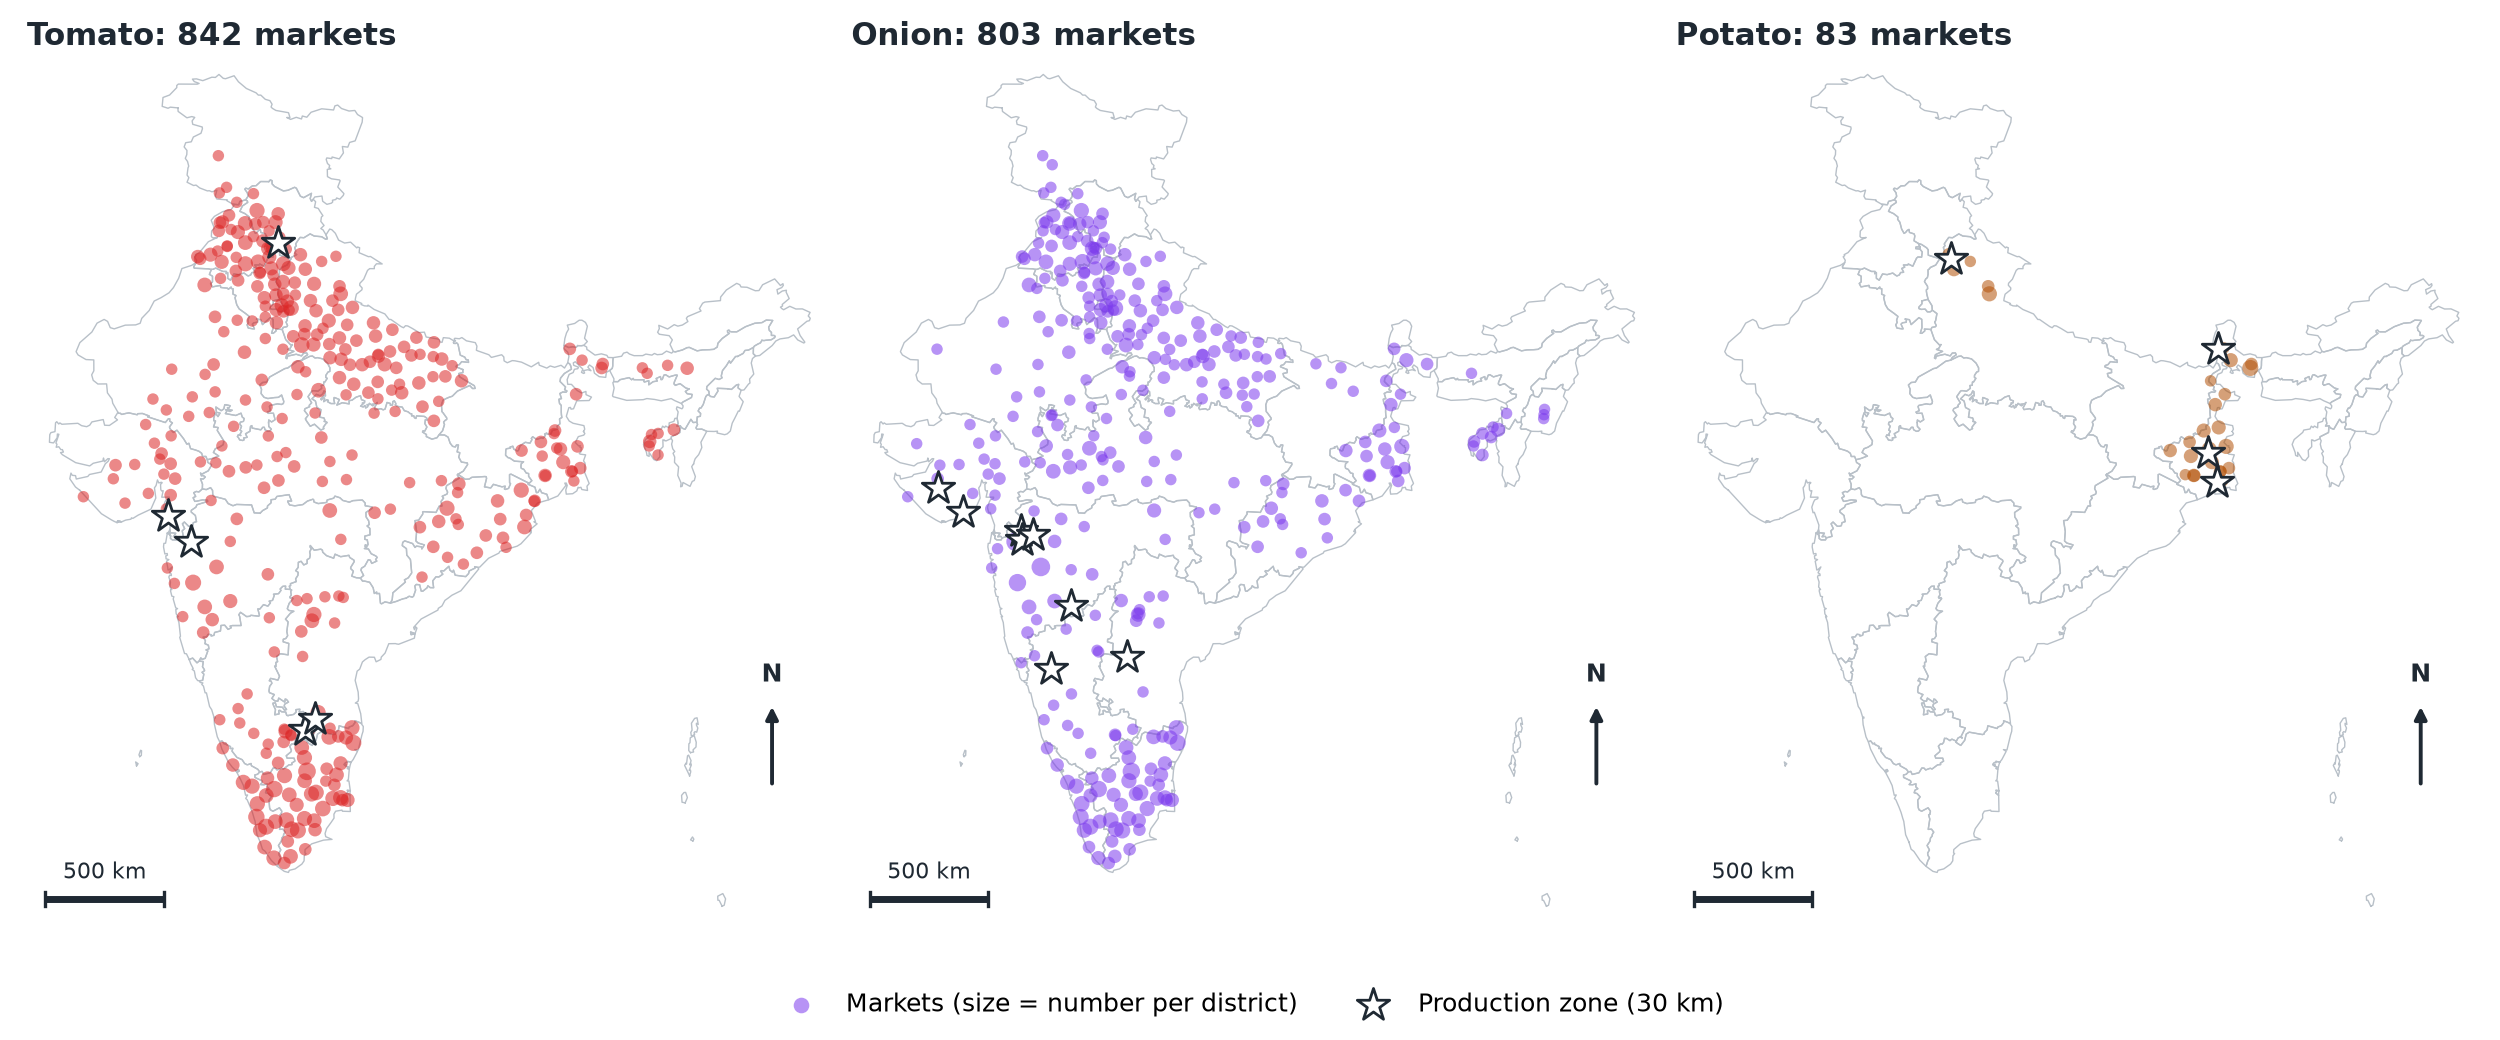
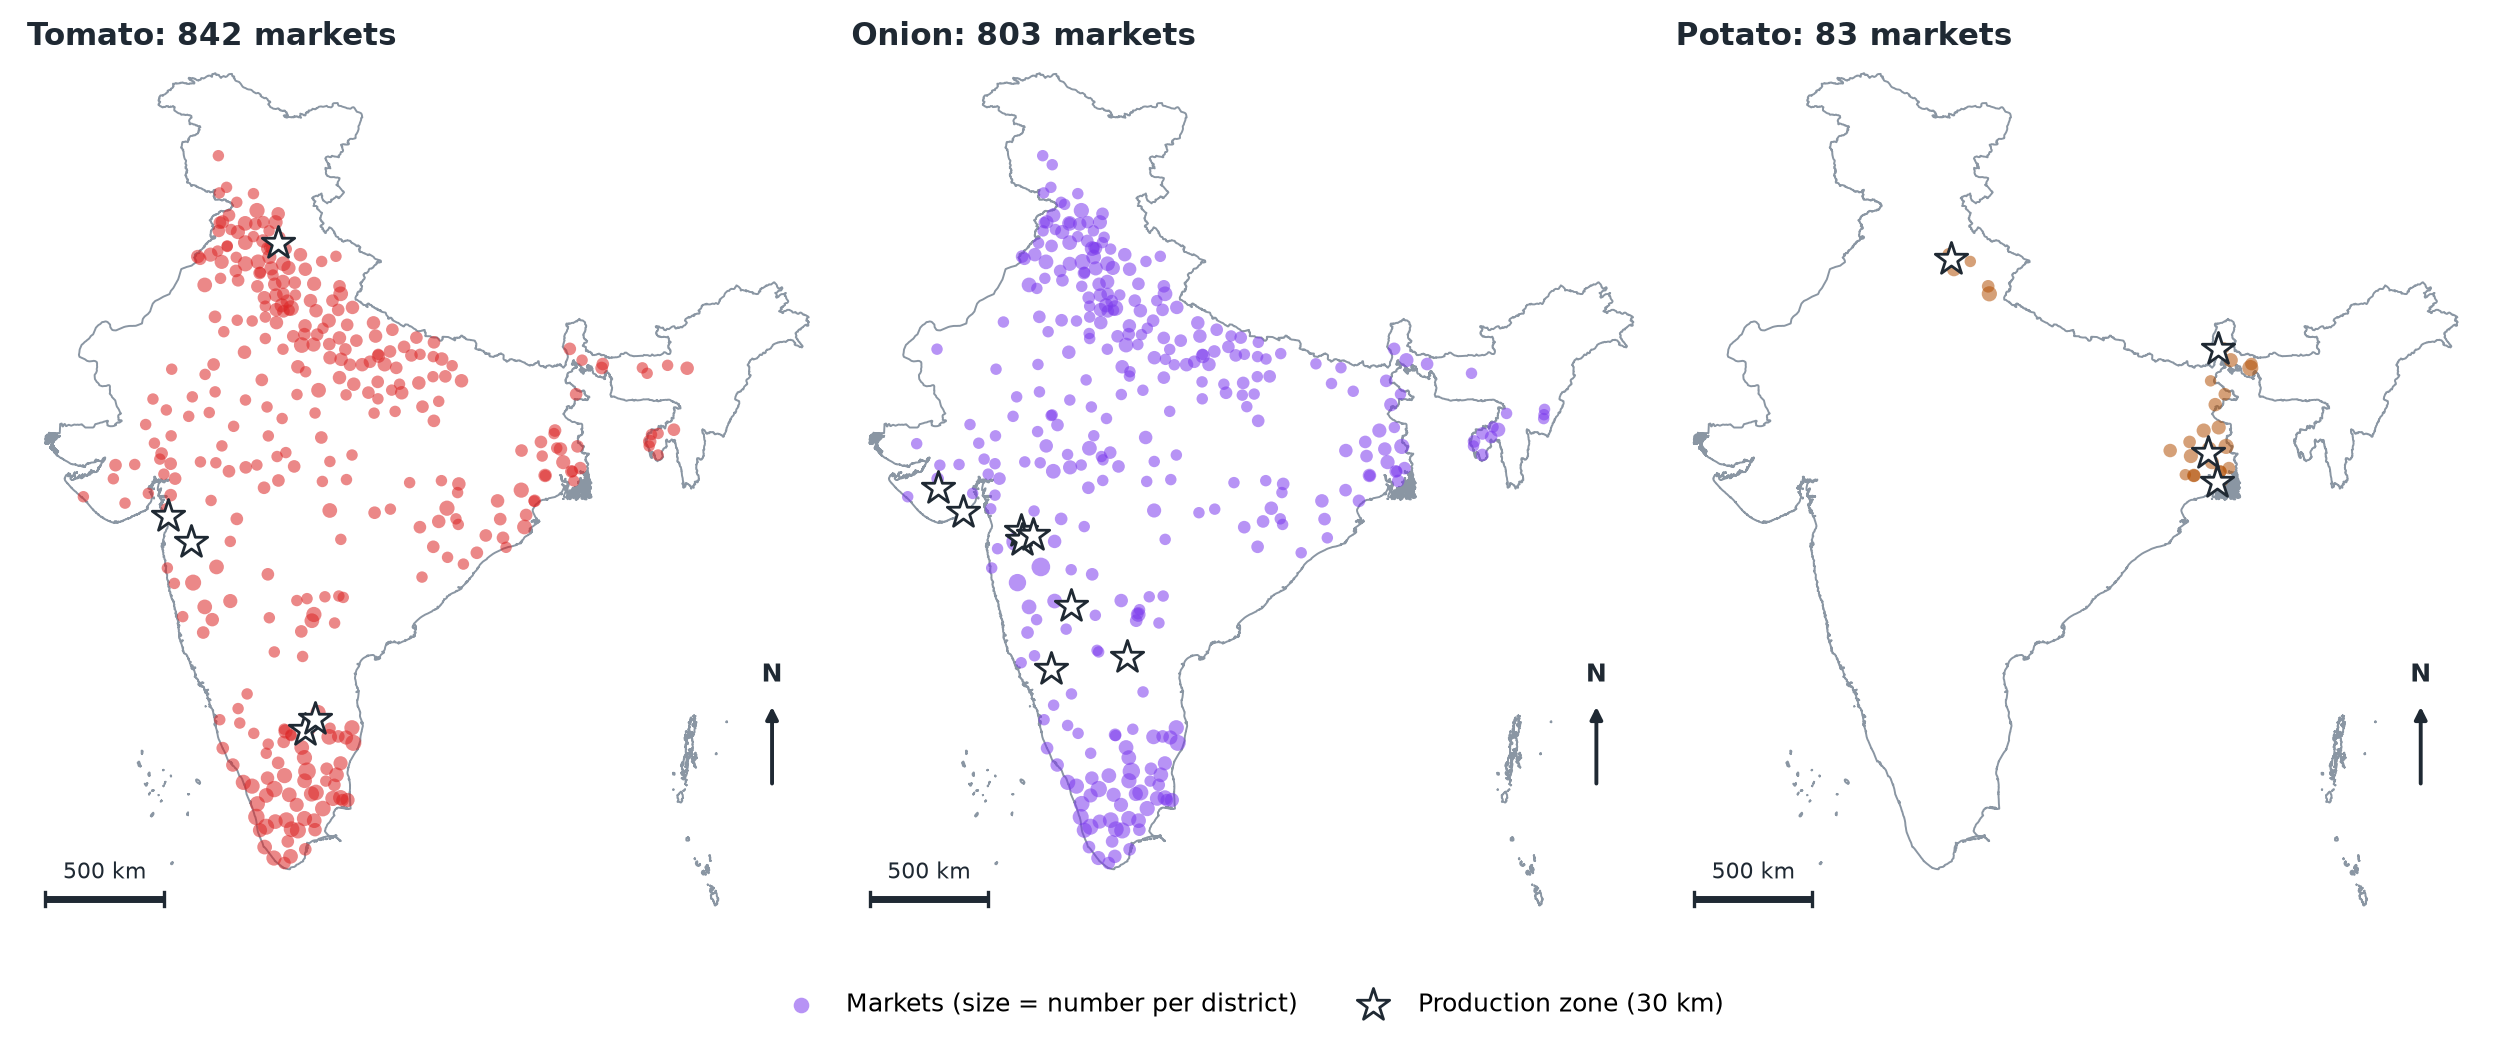
Study-area map: Survey of India based country outline (DataMeet) with known licence

diff --git a/scripts/78_Study_Area_Figures.py b/scripts/78_Study_Area_Figures.py
@@ -6,7 +6,7 @@ Fig 2  weekly number of markets with an observed price, by crop
 Fig 3  national median weekly price by crop, 2017-2026
 Fig 4  markets per state, by crop
 Fig 5  age of the latest data point of each layer, relative to the market panel
-State outlines: Survey-of-India-based shapefile (path in TOP_INDIA_STATES_SHP, default in Downloads); the map is skipped if absent.
+Country outline: Survey of India based boundary (Datameet) (path in TOP_INDIA_STATES_SHP, default in Downloads); the map is skipped if absent.
 Outputs: Model_Output/fig_ms_study_area_{1..5}.png
 """
 import os, re, io, sys
@@ -19,7 +19,7 @@ import matplotlib.dates as mdates
 
 BASE = os.path.dirname(os.path.dirname(os.path.abspath(__file__)))
 OUT = os.path.join(BASE, 'Model_Output')
-SHP = os.environ.get('TOP_INDIA_STATES_SHP', r'C:\Users\masro\Downloads\India Shapefile With Kashmir\India Shape\india_st')
+OUTLINE = os.environ.get('TOP_INDIA_OUTLINE', r'C:\Users\masro\Downloads\maps-master\Country\india-soi.geojson')   # Datameet, Survey of India based country outline (CC-BY-SA 2.5 / ODbL)
 CROPS = ['tomato', 'onion', 'potato']
 COL = {'tomato': '#DC2626', 'onion': '#7C3AED', 'potato': '#B45309'}
 INK, MUTED, GRID = '#1F2933', '#52606D', '#E1E0D9'
@@ -137,20 +137,25 @@ def north(ax, x=96.0, y=11.0):
 
 def fig1(p):
     try:
-        import shapefile
-        r = shapefile.Reader(SHP)
+        import json
+        gj = json.load(io.open(OUTLINE, encoding='utf-8'))
     except Exception as e:
         print('[78] map skipped:', e); return
+    rings = []
+    for ft in gj['features']:
+        g = ft['geometry']
+        polys = g['coordinates'] if g['type'] == 'MultiPolygon' else [g['coordinates']]
+        for poly in polys:
+            for ring in poly:
+                rings.append(np.array(ring))
     za = locations(p)
     za = za[za['lat'].notna()]
     pts = za.groupby(['crop', 'lat', 'lon']).size().reset_index(name='n')
     Z = zones()
     fig, axs = plt.subplots(1, 3, figsize=(12.5, 5.2))
     for ax, crop in zip(axs, CROPS):
-        for shp in r.shapes():
-            parts = list(shp.parts) + [len(shp.points)]
-            for a, b in zip(parts[:-1], parts[1:]):
-                xy = np.array(shp.points[a:b]); ax.plot(xy[:, 0], xy[:, 1], color='#B8C0C8', lw=0.5, zorder=1)
+        for xy in rings:
+            ax.plot(xy[:, 0], xy[:, 1], color='#8A96A3', lw=0.7, zorder=1)
         d = pts[pts.crop == crop]
         ax.scatter(d.lon, d.lat, s=8 + 9 * np.sqrt(d.n), color=COL[crop], alpha=0.55, linewidths=0, zorder=3, label='Markets (size = number per district)')
         zz = Z[Z.crop == crop]
